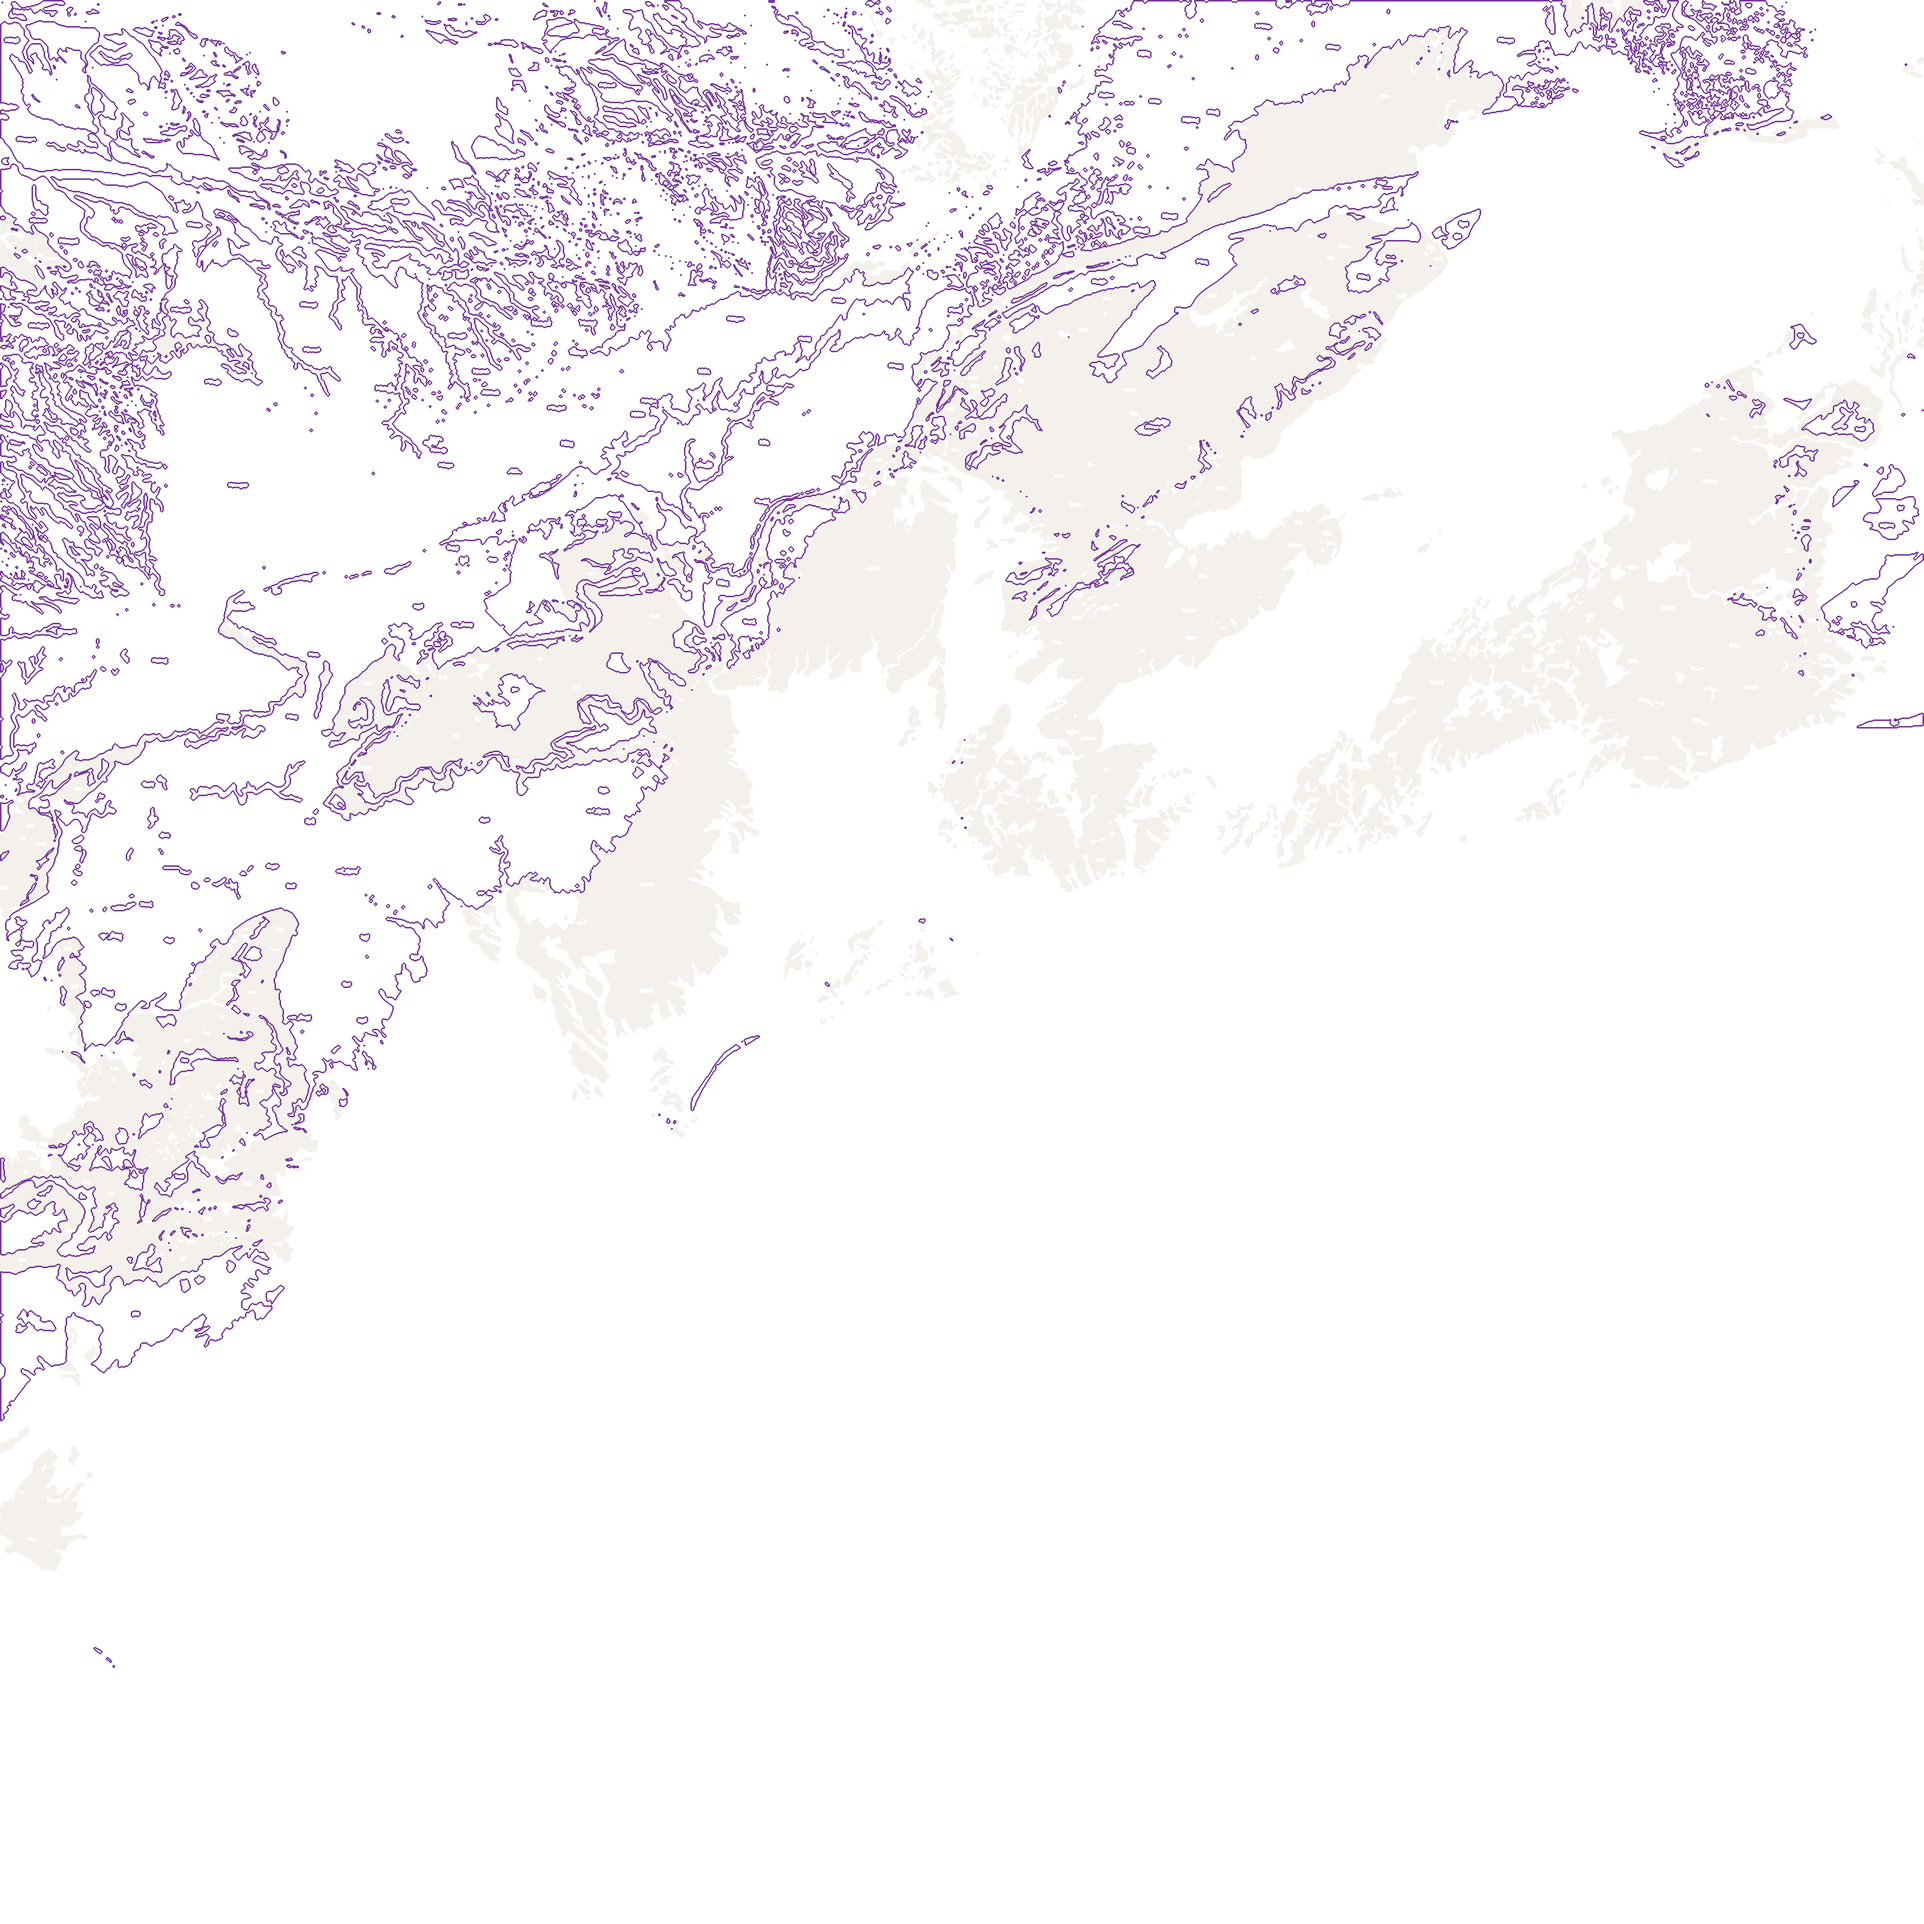
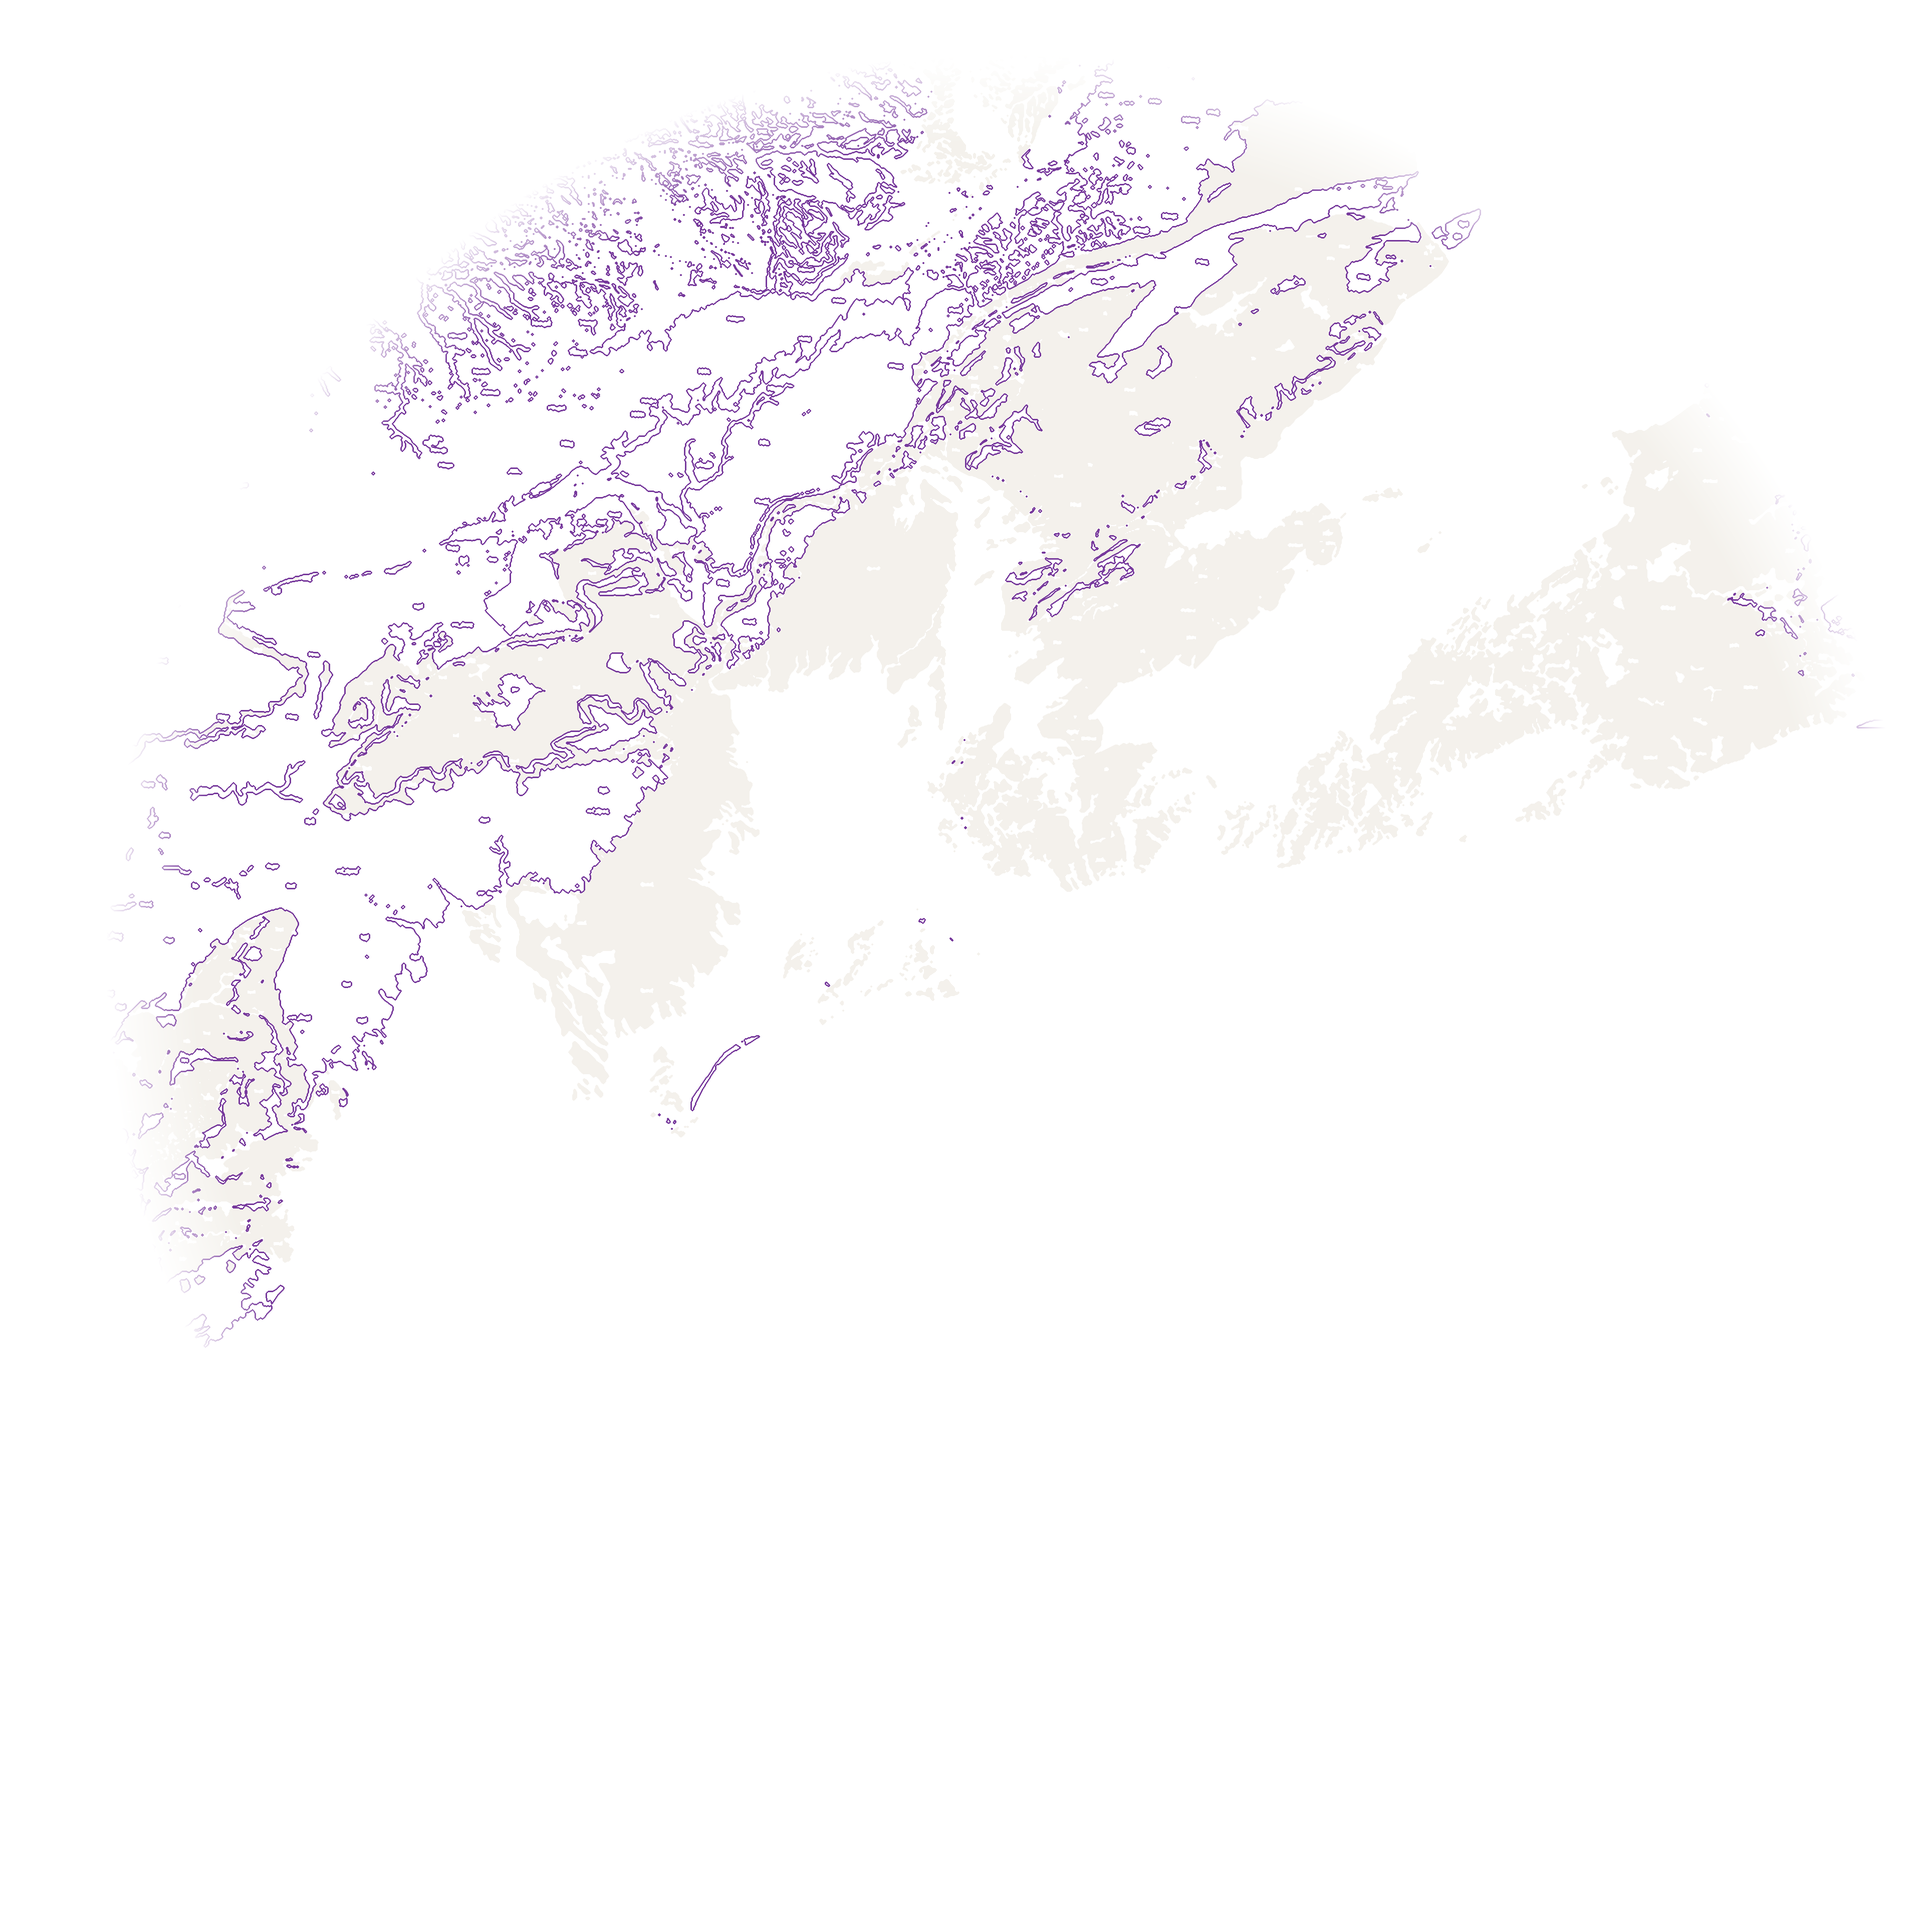
Mapa: mar sense talls, capes amb vora suau i pobles de referència

diff --git a/index.html b/index.html
@@ -129,7 +129,10 @@ input[type=time],input[type=date],textarea{font:inherit;color:var(--ink);backgro
 
 /* Mapa */
 .mapbox{position:relative;border-radius:18px;overflow:hidden;border:1px solid var(--line)}
-#map{width:100%;height:62vh;min-height:400px;max-height:700px;background:#e8e8e2}
+#map{width:100%;height:62vh;min-height:400px;max-height:700px;background:#9DA6AA}
+.town{font:800 13px var(--f-body);color:#fff;text-shadow:0 0 3px #000,0 0 6px #000,0 1px 2px #000;white-space:nowrap;text-align:center;letter-spacing:.02em}
+.town.big{font-size:16px;text-transform:uppercase;letter-spacing:.08em}
+.town .home{display:inline-block;margin-right:4px;vertical-align:-2px}
 .layerbar{position:absolute;left:8px;right:8px;bottom:26px;z-index:1000;display:flex;gap:6px;flex-wrap:wrap;pointer-events:none}
 .layerbar .opt{pointer-events:auto;box-shadow:0 1px 6px rgba(0,0,0,.45);background:rgba(25,32,21,.88);color:#E5EADD;border-color:rgba(255,255,255,.18);font-size:13.5px;padding:8px 12px}
 .layerbar .opt[aria-pressed="true"]{background:#A3C982;color:#14190F;border-color:#A3C982}
@@ -480,20 +483,30 @@ function buildMap(){
      </div></div>
    <div class="card" id="mapcard"><p class="small">Toca una agulla per obrir un lloc teu, un punt de color per veure un possible spot, o qualsevol lloc del mapa per saber si la terra és àcida i quina cara té.</p></div>`;
   map=L.map('map',{zoomAnimation:false,fadeAnimation:false,markerZoomAnimation:false,minZoom:9,maxZoom:18,maxBounds:[[40.45,0.1],[42.9,3.4]],maxBoundsViscosity:1});
-  map.attributionControl.setPrefix(false).addAttribution('ICGC · Terrain Tiles · Open-Meteo');
+  map.attributionControl.setPrefix(false).addAttribution('ICGC · Esri · Terrain Tiles · Open-Meteo');
   // Fons en directe de l'ICGC (tota Catalunya, nítid a qualsevol zoom) + obaga/solana calculada
   map.createPane('obsolP').style.zIndex=250;const tp=map.createPane('topoP');tp.style.zIndex=300;tp.style.mixBlendMode='multiply';tp.style.pointerEvents='none';
   const ICGC='https://geoserveis.icgc.cat/icc_mapesmultibase/noutm/wmts/';
-  L1.orto=L.tileLayer(ICGC+'orto/GRID3857/{z}/{x}/{y}.jpeg',{maxZoom:18,className:'gris'}).addTo(map);
+  // Foto aèria d'Esri: cobreix també el mar (la de l'ICGC s'acaba a la costa i deixa quadres blancs)
+  L1.orto=L.tileLayer('https://server.arcgisonline.com/ArcGIS/rest/services/World_Imagery/MapServer/tile/{z}/{y}/{x}',{maxZoom:18,className:'gris'}).addTo(map);
   map.createPane('acidP').style.zIndex=270;
   region().then(R=>{L1.cares=L.imageOverlay('data/reg_cares.png',R.bounds,{opacity:.85,pane:'obsolP'});L1.acid=L.imageOverlay('data/reg_acid.png',R.bounds,{pane:'acidP'});
     L1.spots=L.layerGroup();const rend=L.canvas({padding:.5});const H=R.home;
+    const TOWNS=[['Torredembarra',41.1462,1.3960,2],['Reus',41.1561,1.1069,1],['Tarragona',41.1189,1.2445,1],['Valls',41.2861,1.2497,0],['Cambrils',41.0667,1.0597,0],['Montblanc',41.3759,1.1626,0],['Falset',41.1450,0.8197,0],['El Vendrell',41.2188,1.5349,0],['Alforja',41.2100,0.9751,0],['Prades',41.3093,0.9887,0]];
+    const lp=map.createPane('labels');lp.style.zIndex=590;lp.style.pointerEvents='none';L1.towns=L.layerGroup().addTo(map);
+    const homeSvg='<svg class="home" width="16" height="16" viewBox="0 0 24 24"><path d="M3 11l9-7 9 7v9a1 1 0 0 1-1 1h-5v-6H9v6H4a1 1 0 0 1-1-1z" fill="#fff" stroke="#000" stroke-width="1.2"/></svg>';
+    const drawTowns=()=>{L1.towns.clearLayers();const zm=map.getZoom();TOWNS.forEach(([n,la,lo,lv])=>{if(lv===0&&zm<11)return;L.marker([la,lo],{pane:'labels',interactive:false,keyboard:false,icon:L.divIcon({className:'',html:`<div class="town ${lv?'big':''}">${lv===2?homeSvg:''}${n}</div>`,iconSize:[160,22],iconAnchor:[80,11]})}).addTo(L1.towns)})};
+    drawTowns();map.on('zoomend',drawTowns);
+    // de lluny només els spots grans, i més petits
+    const spotR=z=>{const zm=map.getZoom();return Math.max(3,Math.min(12,(zm-8)*1.1+Math.sqrt(z.ha)/3))};
+    const spotOk=z=>{const zm=map.getZoom();return zm>=13||z.ha>=(zm>=12?20:zm>=11?60:150)};
     R.zones.forEach((z,i)=>{const col=z.ob>=.45?'#3468C8':z.so>=.45?'#E88430':'#D9B526';
-      L.circleMarker([z.lat,z.lng],{renderer:rend,radius:Math.min(12,4+Math.sqrt(z.ha)/2.2),color:'#fff',weight:2,fillColor:col,fillOpacity:.95})
-       .on('click',ev=>{L.DomEvent.stopPropagation(ev);spotCard(i)}).addTo(L1.spots)});
+      const m=L.circleMarker([z.lat,z.lng],{renderer:rend,radius:spotR(z),color:'#fff',weight:2,fillColor:col,fillOpacity:.95})
+       .on('click',ev=>{L.DomEvent.stopPropagation(ev);spotCard(i)});m._z=z;if(spotOk(z))m.addTo(L1.spots);(L1.allSpots=L1.allSpots||[]).push(m)});
+    map.on('zoomend',()=>L1.allSpots.forEach(m=>{const ok=spotOk(m._z);m.setRadius(spotR(m._z));if(ok&&!L1.spots.hasLayer(m))m.addTo(L1.spots);if(!ok&&L1.spots.hasLayer(m))L1.spots.removeLayer(m)}));
     const on=store.get('capes',{cares:true,acid:true,spots:true});['cares','acid','spots'].forEach(k=>{const b=$('#s-mapa').querySelector(`[data-lay=${k}]`);b.setAttribute('aria-pressed',!!on[k]);if(on[k])L1[k].addTo(map);legendSync()})});
   L1.topo=L.tileLayer(ICGC+'topogris/GRID3857/{z}/{x}/{y}.png',{maxZoom:18,pane:'topoP'}).addTo(map);
-  L1.fit=()=>map.fitBounds(L.latLngBounds(SITES.map(s=>[s.lat,s.lng])),{padding:[80,70],maxZoom:15});L1.fit();
+  L1.fit=()=>map.fitBounds(L.latLngBounds(SITES.map(s=>[s.lat,s.lng]).concat([[41.1462,1.3960]])),{padding:[40,40],maxZoom:15});L1.fit();
   drawPins();
   $('#s-mapa').querySelectorAll('[data-lay]').forEach(b=>b.onclick=()=>{const k=b.dataset.lay,on=b.getAttribute('aria-pressed')!=='true';b.setAttribute('aria-pressed',on);
     if(!L1[k])return;on?L1[k].addTo(map):map.removeLayer(L1[k]);if(k!=='orto'){const c=store.get('capes',{cares:true,acid:true,spots:true});c[k]=on;store.set('capes',c)}legendSync()});

diff --git a/sw.js b/sw.js
@@ -1,7 +1,7 @@
 // Boletus: funciona sense cobertura al bosc.
 // L'app i les dades: primer la xarxa (per tenir sempre l'última versió), si no, la còpia guardada.
 // Mapes i fonts: la còpia guardada, i s'actualitza de fons.
-const APP = 'cb-app-v5', MAPS = 'cb-maps-v1';
+const APP = 'cb-app-v6', MAPS = 'cb-maps-v1';
 const SHELL = ['./', 'index.html', 'manifest.webmanifest', 'vendor/leaflet.js', 'vendor/leaflet.css',
   'icons/logo.svg', 'icons/icon-192.png', 'icons/apple-touch-icon.png',
   'data/meta.json', 'data/grid.bin', 'data/hist.json', 'data/now.json', 'data/llocs.json', 'data/obsol.png', 'data/region.json', 'data/reg_cares.png', 'data/reg_acid.png', 'data/reg_info.png'];
@@ -25,7 +25,7 @@ self.addEventListener('fetch', e => {
     }).catch(() => caches.match(e.request, { ignoreSearch: true }).then(r => r || caches.match('index.html'))));
     return;
   }
-  if (url.hostname === 'geoserveis.icgc.cat' || url.hostname.endsWith('gstatic.com') || url.hostname.endsWith('googleapis.com')) {
+  if (url.hostname === 'geoserveis.icgc.cat' || url.hostname === 'server.arcgisonline.com' || url.hostname.endsWith('gstatic.com') || url.hostname.endsWith('googleapis.com')) {
     e.respondWith(caches.open(MAPS).then(async c => {
       const hit = await c.match(e.request);
       const net = fetch(e.request).then(r => { if (r.ok || r.type === 'opaque') c.put(e.request, r.clone()); return r; }).catch(() => hit);

diff --git a/tools/fade_region.py b/tools/fade_region.py
@@ -1,0 +1,17 @@
+"""Suavitza la vora de les capes regionals: es fonen en un cercle de ~48-52 km al voltant de Torredembarra,
+en lloc d'acabar en un quadrat tallat."""
+import json, math, numpy as np
+from PIL import Image
+R = json.load(open('data/region.json', encoding='utf-8'))
+(S, W), (N, E) = R['bounds']; H = R['home']
+my = lambda la: math.log(math.tan(math.pi / 4 + math.radians(la) / 2))
+for f in ['data/reg_cares.png', 'data/reg_acid.png']:
+    im = Image.open(f).convert('RGBA'); w, h = im.size; a = np.asarray(im).copy()
+    xs = W + (E - W) * (np.arange(w) + .5) / w
+    ys = my(N) - (my(N) - my(S)) * (np.arange(h) + .5) / h
+    lats = np.degrees(2 * np.arctan(np.exp(ys)) - math.pi / 2)
+    dy = (lats[:, None] - H['lat']) * 111.32; dx = (xs[None, :] - H['lng']) * 111.32 * math.cos(math.radians(H['lat']))
+    d = np.hypot(dx, dy)
+    fade = np.clip((52 - d) / 5, 0, 1)
+    a[..., 3] = (a[..., 3] * fade).astype(np.uint8)
+    Image.fromarray(a, 'RGBA').save(f, optimize=True); print(f, 'ok')
